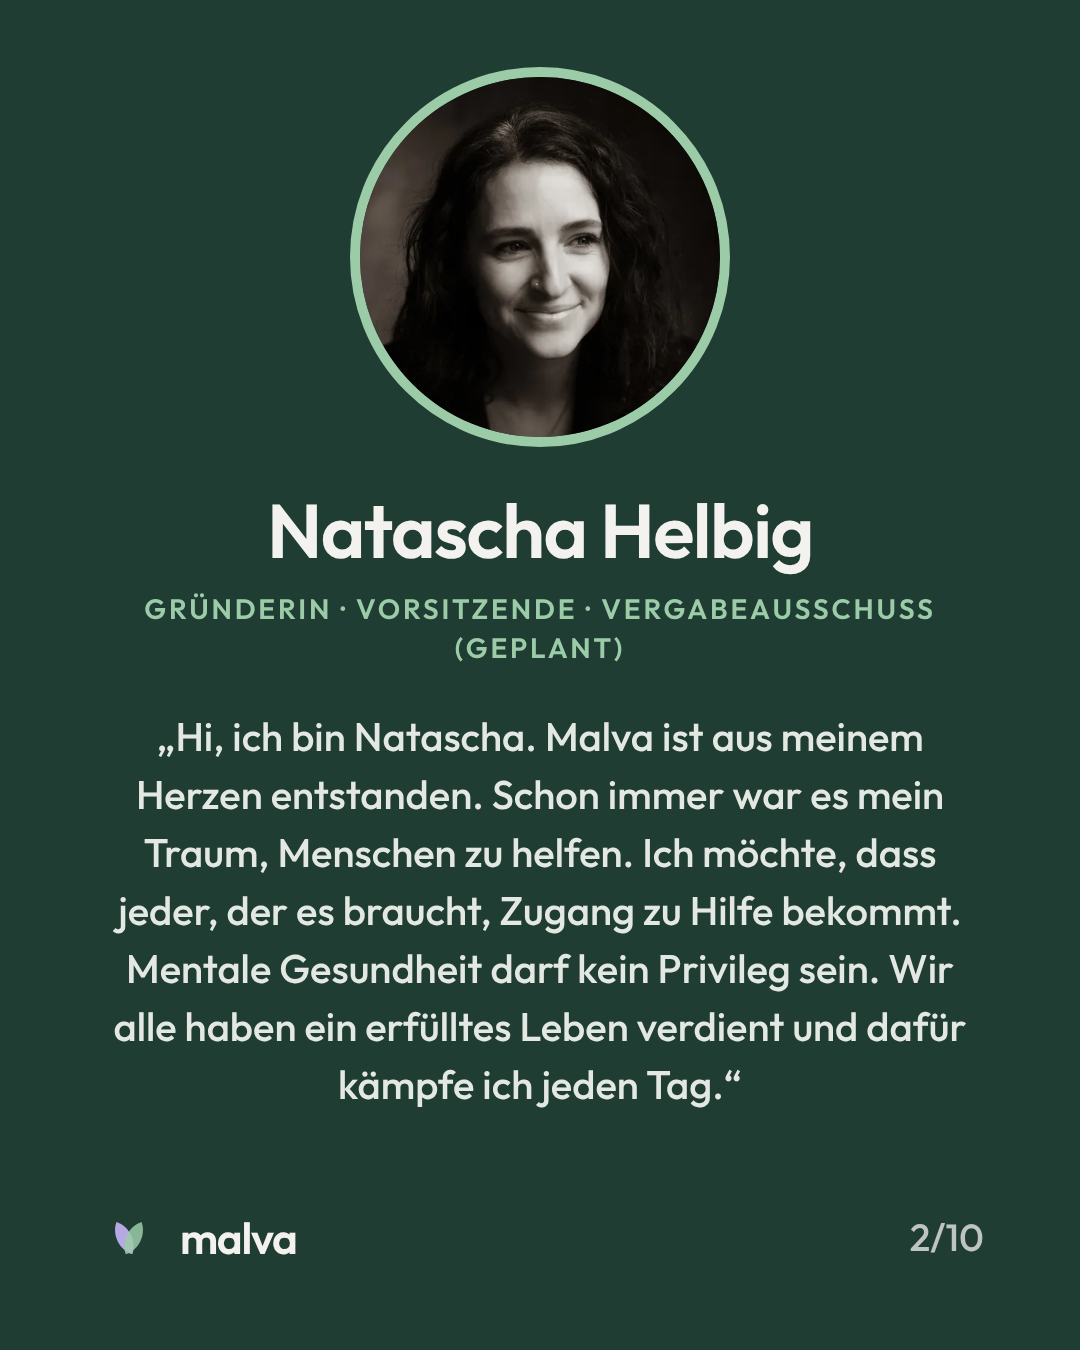
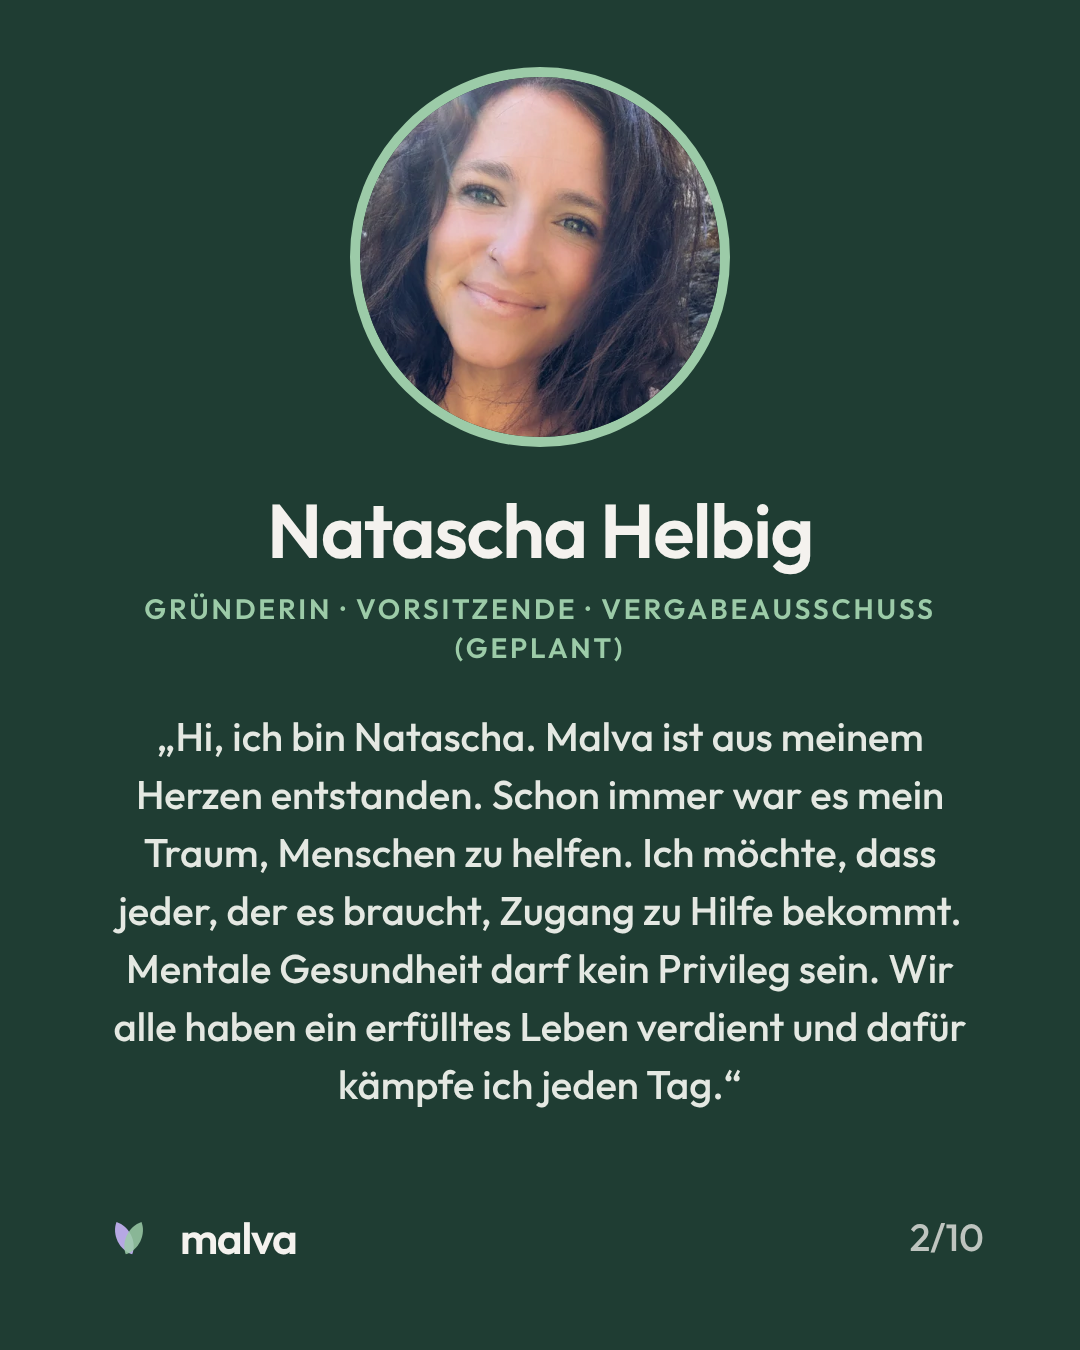
Team: neues Foto von Natascha Helbig (Website und Insta-Karussell)
Claude-Session: https://claude.ai/code/session_015uEer6M6e5oi78ZvJtGjnt

Changed region(s): [[0.3361, 0.0311, 0.6722, 0.3422]]

diff --git a/malva-website/instagram/team/slides.html b/malva-website/instagram/team/slides.html
@@ -49,11 +49,11 @@ h2{font-weight:600;font-size:82px;line-height:1.12;letter-spacing:-.025em}
 <section class="slide dark center" id="s01">
   <p class="kicker">Das Team hinter Malva</p>
   <h1 style="font-size:120px">Gemeinsam für<br><span class="hl">mentale Gesundheit.</span></h1>
-  <div class="faces"><img src="../../src/assets/img/natascha-helbig-rund.webp" alt=""><img src="../../src/assets/img/jennifer-rebelein-rund.webp" alt=""><img src="../../src/assets/img/christine-franz-rund.webp" alt=""><img src="../../src/assets/img/marco-kraft-rund.webp" alt=""><img src="../../src/assets/img/natascha-pusch-rund.webp" alt=""><img src="../../src/assets/img/christina-schifferer-rund.webp" alt=""><img src="../../src/assets/img/helmut-vohl-rund.webp" alt=""><img src="../../src/assets/img/florian-wittmann-rund.webp" alt=""></div>
+  <div class="faces"><img src="../../src/assets/img/natascha-helbig-team-rund.webp" alt=""><img src="../../src/assets/img/jennifer-rebelein-rund.webp" alt=""><img src="../../src/assets/img/christine-franz-rund.webp" alt=""><img src="../../src/assets/img/marco-kraft-rund.webp" alt=""><img src="../../src/assets/img/natascha-pusch-rund.webp" alt=""><img src="../../src/assets/img/christina-schifferer-rund.webp" alt=""><img src="../../src/assets/img/helmut-vohl-rund.webp" alt=""><img src="../../src/assets/img/florian-wittmann-rund.webp" alt=""></div>
   <div class="foot"><div class="brand" data-mark="d"><span>malva</span></div><span class="more">Lern uns kennen →</span></div>
 </section>
 <section class="slide dark m" id="s02">
-  <img class="pic" src="../../src/assets/img/natascha-helbig-rund.webp" alt="">
+  <img class="pic" src="../../src/assets/img/natascha-helbig-team-rund.webp" alt="">
   <p class="nm">Natascha Helbig</p>
   <p class="rl">Gründerin · Vorsitzende · Vergabeausschuss (geplant)</p>
   <p class="q">„Hi, ich bin Natascha. Malva ist aus meinem Herzen entstanden. Schon immer war es mein Traum, Menschen zu helfen. Ich möchte, dass jeder, der es braucht, Zugang zu Hilfe bekommt. Mentale Gesundheit darf kein Privileg sein. Wir alle haben ein erfülltes Leben verdient und dafür kämpfe ich jeden Tag.“</p>
